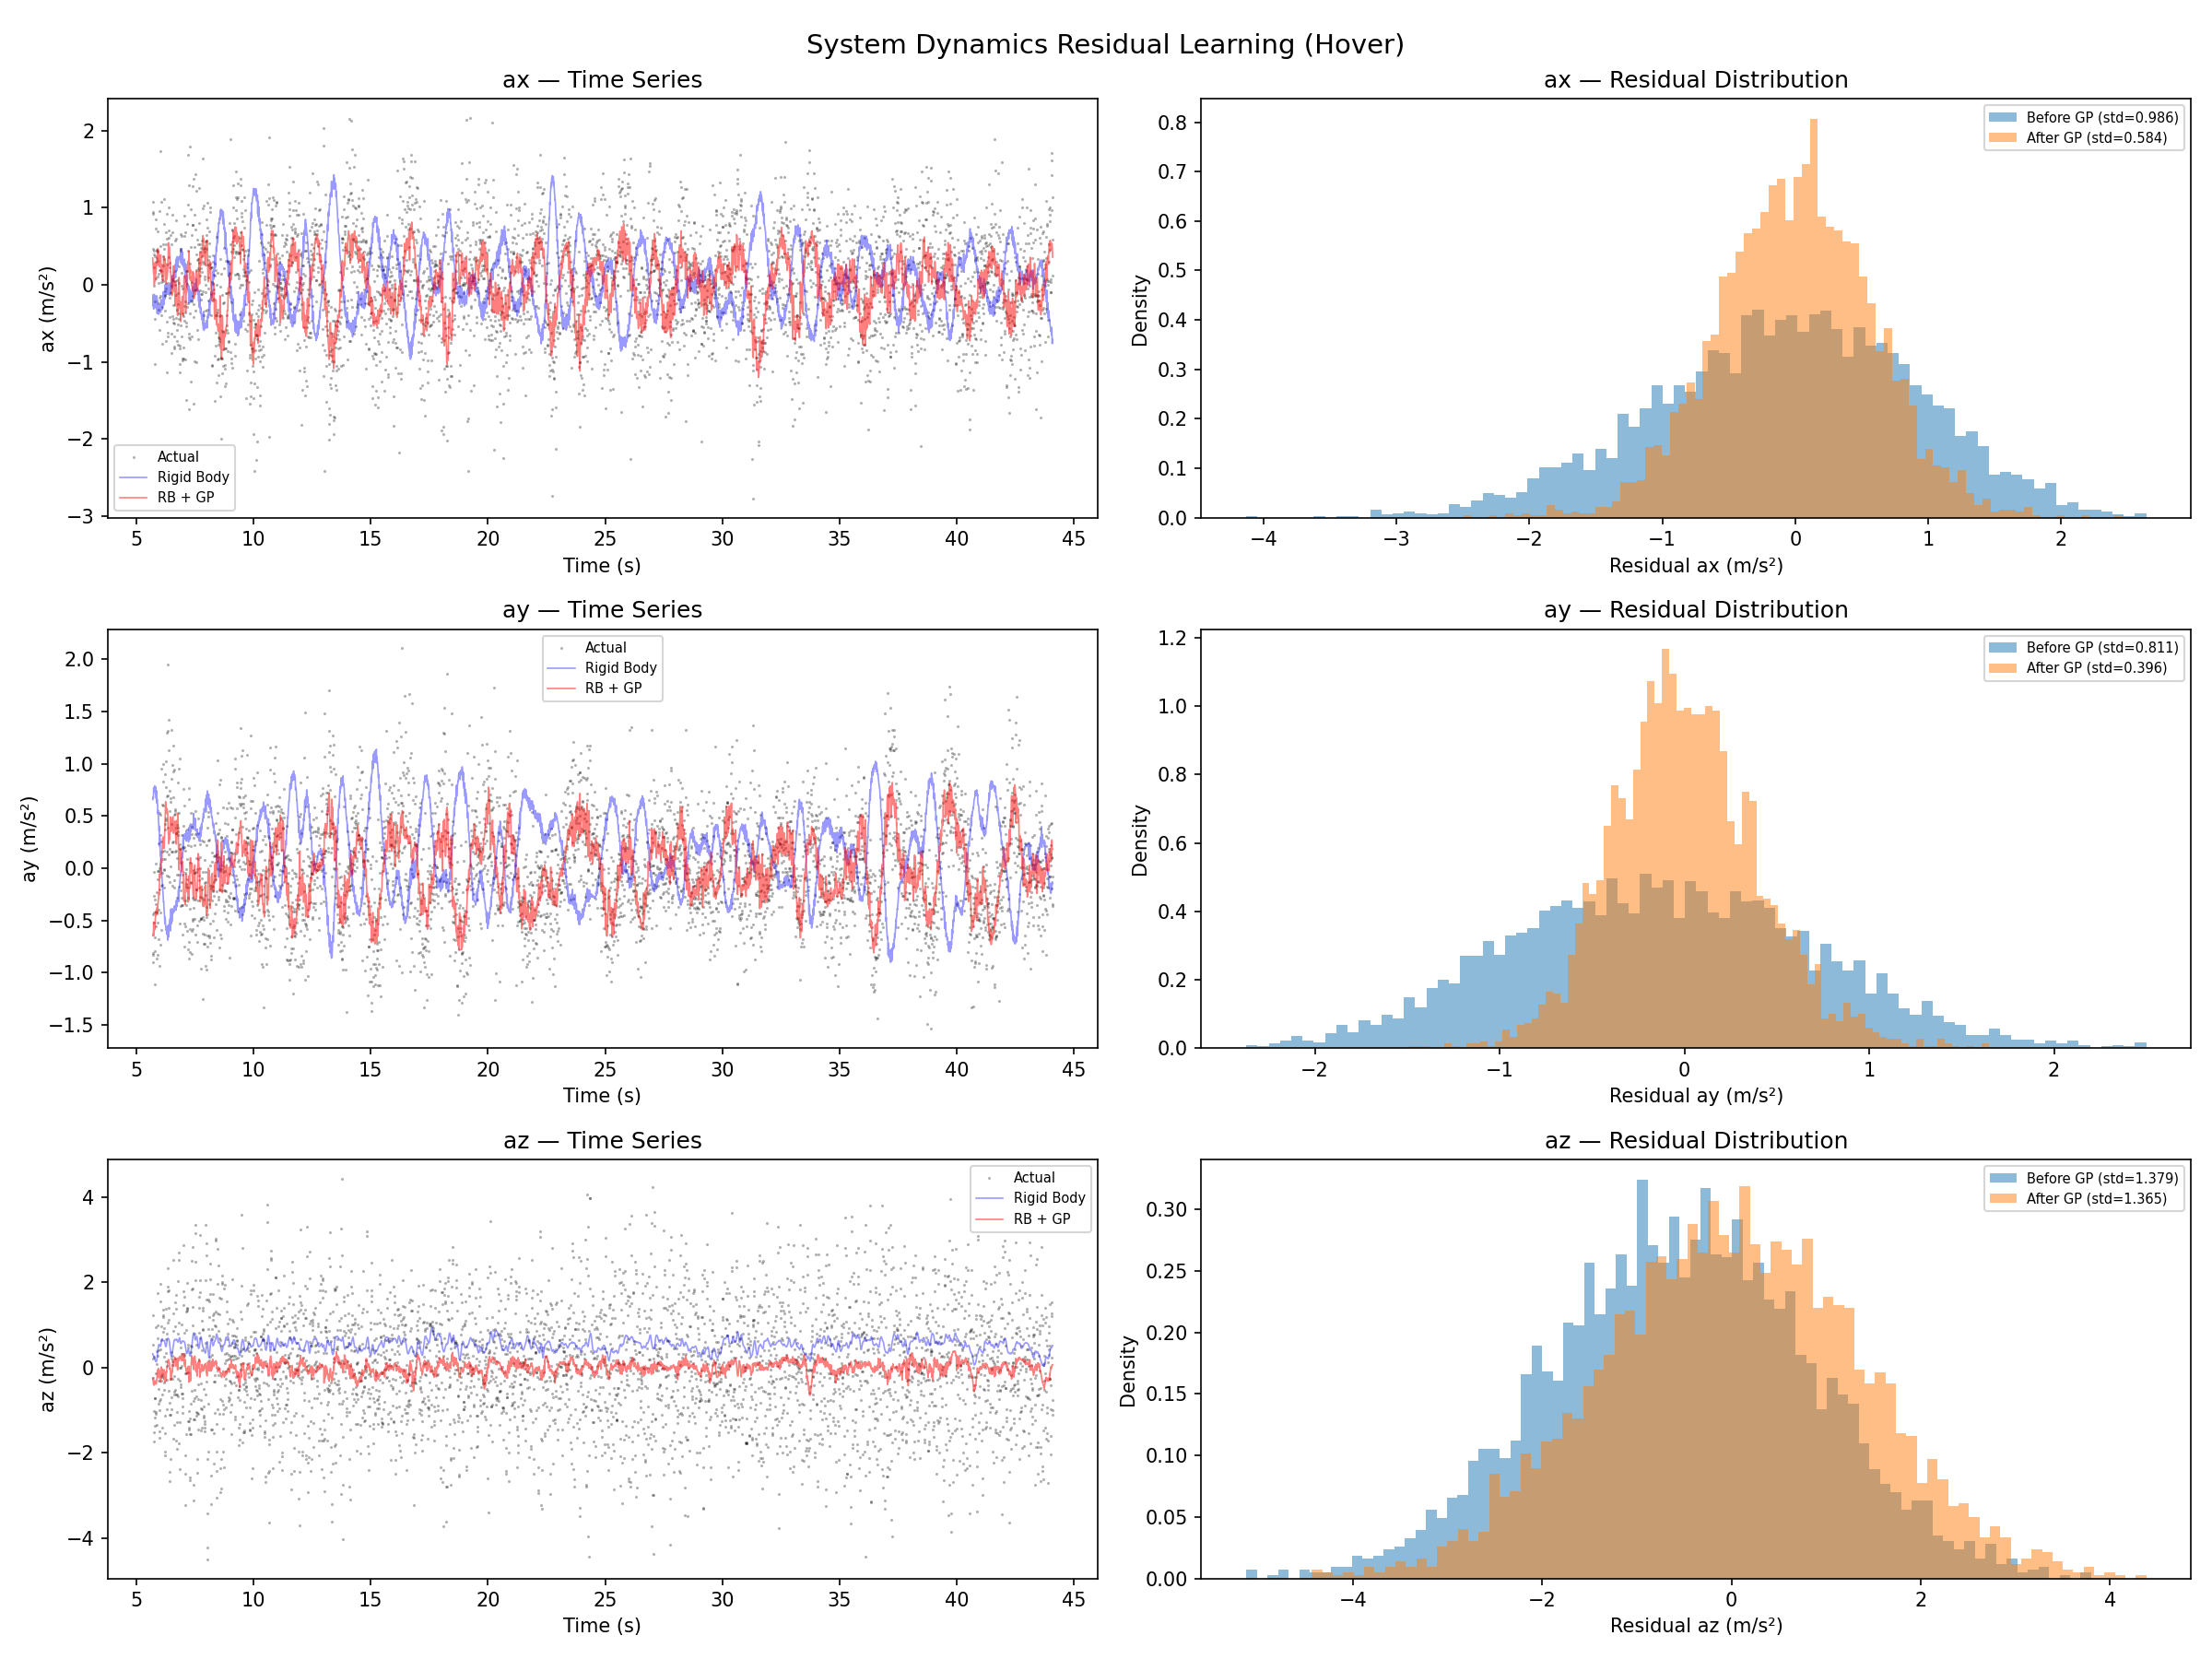
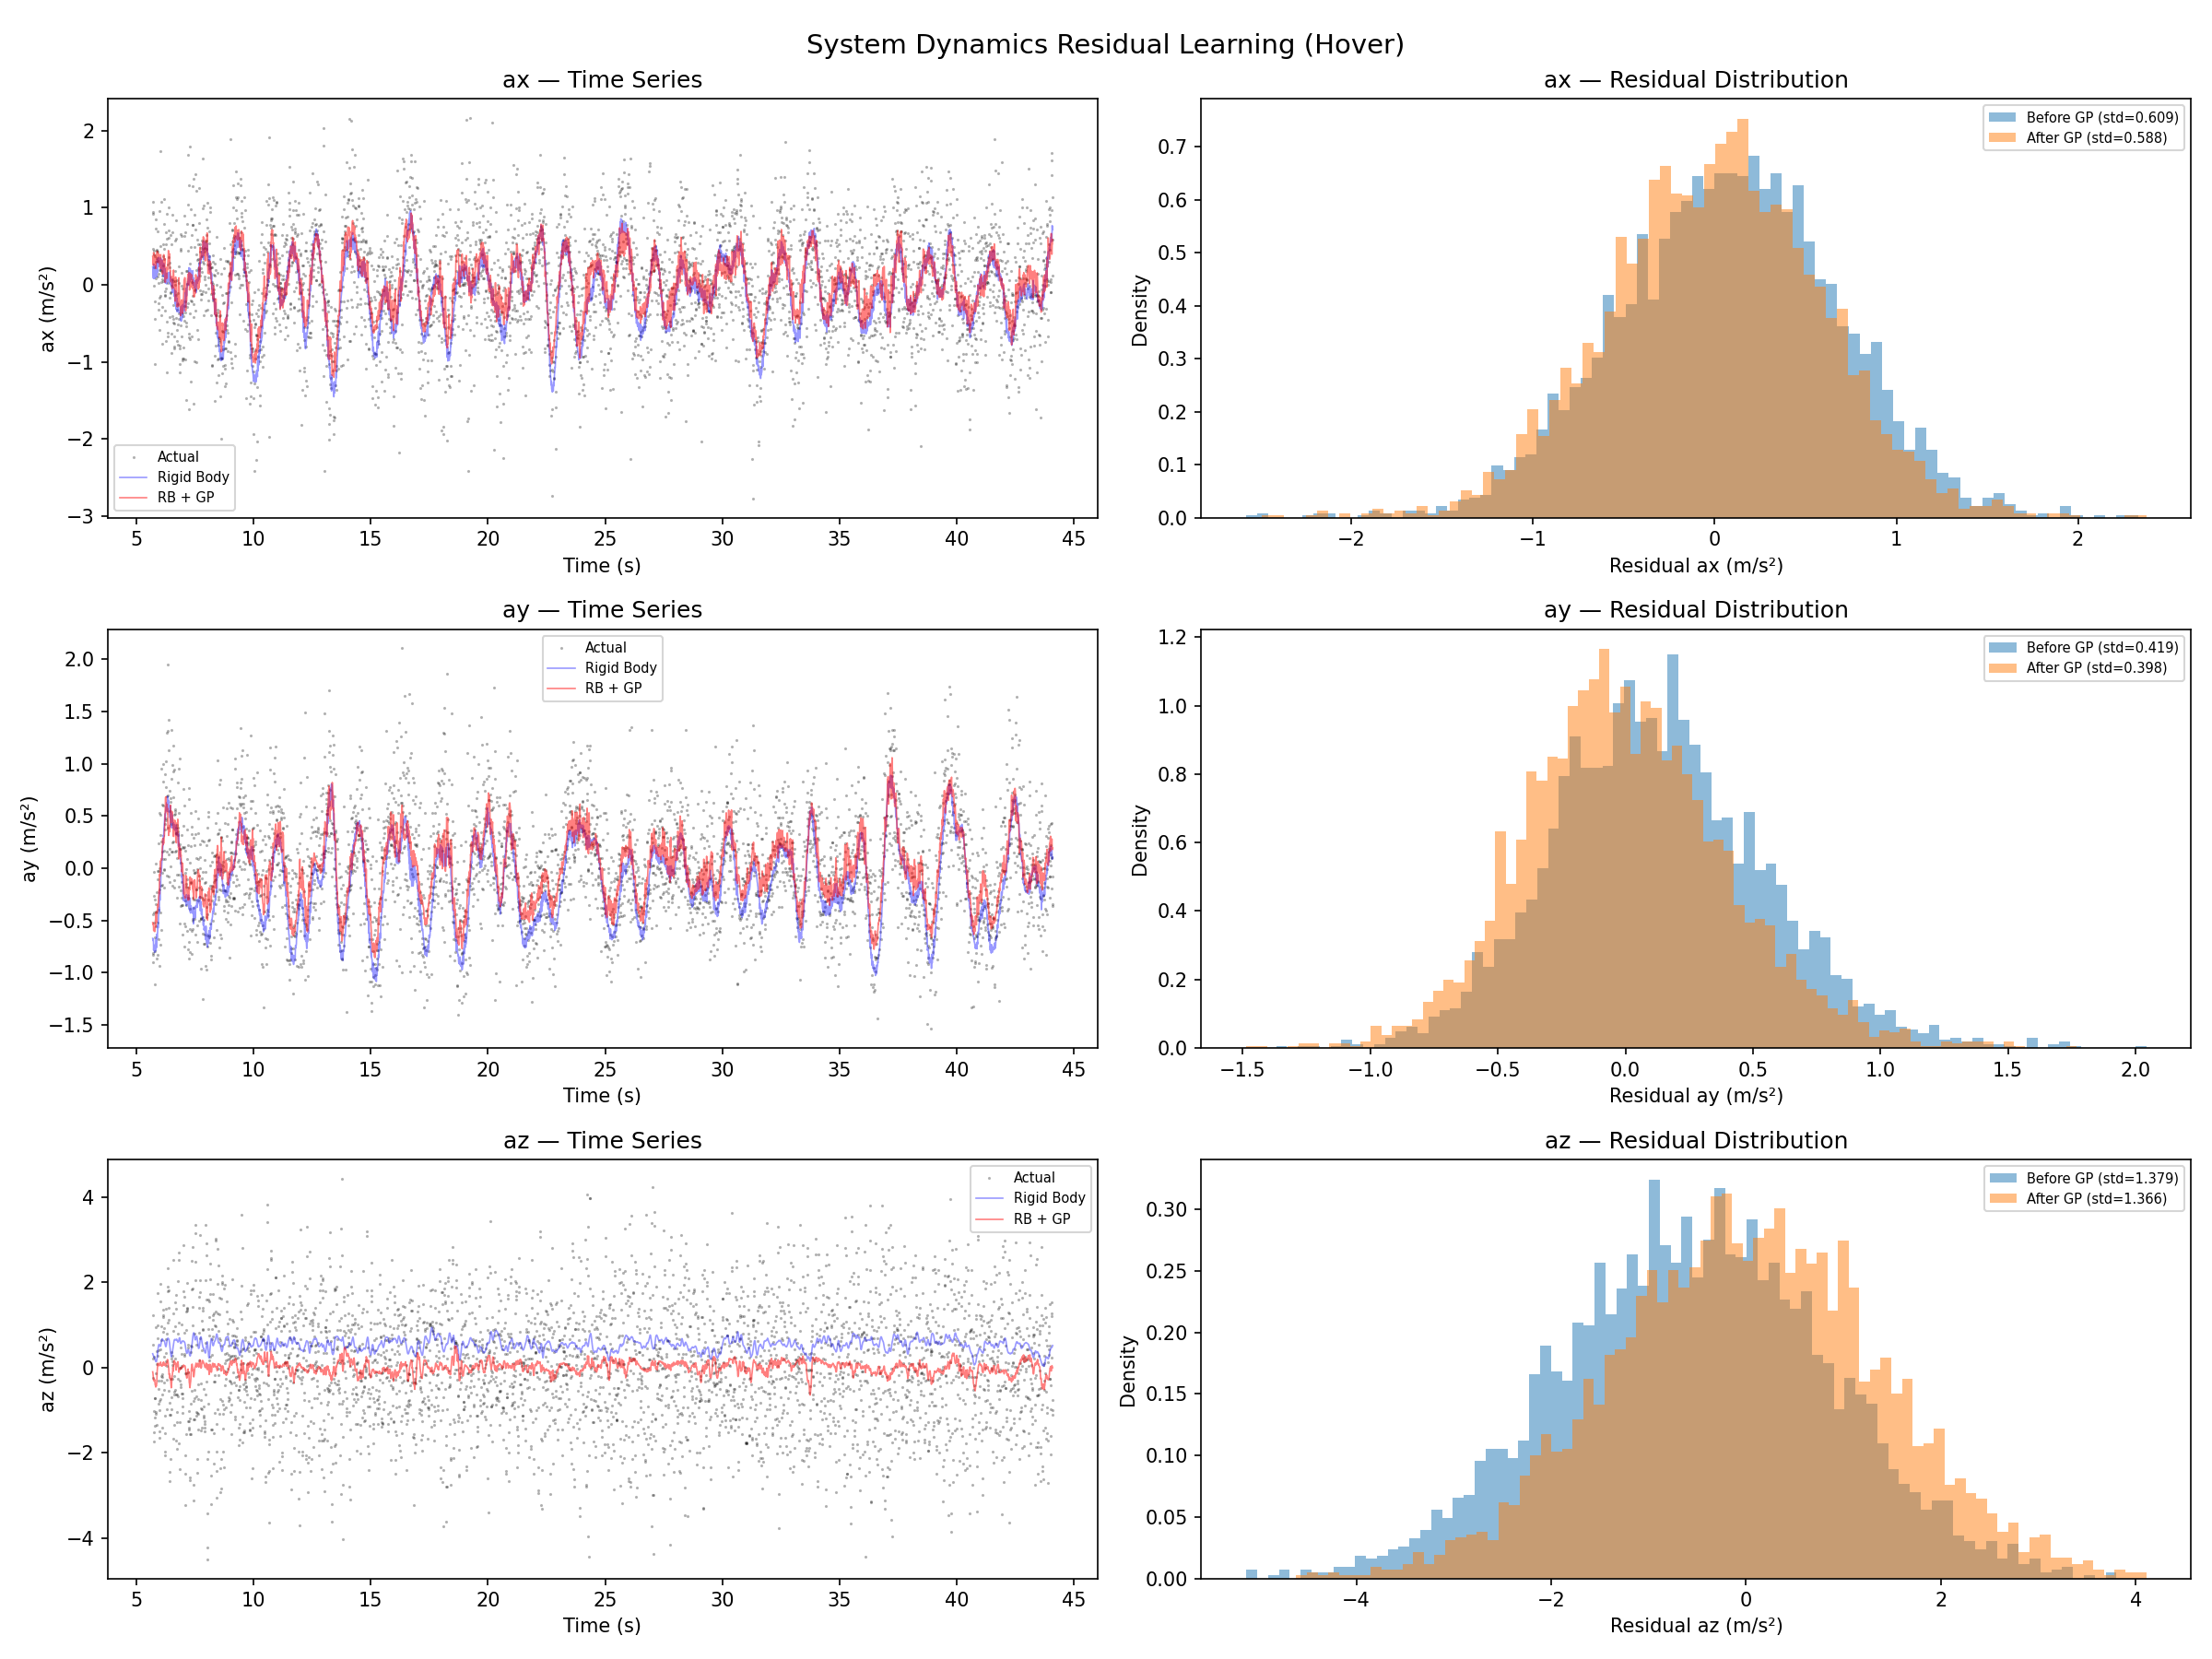
Fix RB accel sign: use rotation matrix directly, remove torque features
Euler formula had inverted sign for ax/ay. Using R*[0,0,Fz/m] directly
fixes the phase inversion. Torques removed from features since linear
acceleration depends only on Fz and attitude.
  ax residual std: 0.986 → 0.609 (38% reduction)
  ay residual std: 0.811 → 0.419 (48% reduction)

https://claude.ai/code/session_01LyivL6ySPkazYroLddSuMA

diff --git a/data_set/train_system_sparse_gpr.py b/data_set/train_system_sparse_gpr.py
@@ -4,7 +4,7 @@ System Dynamics Residual Learning with Sparse GPR
 Learns the residual between rigid-body dynamics prediction and actual
 acceleration from odom, during hovering flight.
 
-Input: [Fz, tau_x, tau_y, tau_z, roll, pitch, vx, vy, vz]
+Input: [Fz, roll, pitch, vx, vy, vz]
 Output: [ax, ay, az] residual (actual - predicted)
 
 Uses GPyTorch Variational SGPR with inducing points.
@@ -163,18 +163,22 @@ def compute_accel_from_velocity(ts, vx, vy, vz):
     return ax, ay, az
 
 
-def predict_rigid_body_accel(fz, roll, pitch):
+def predict_rigid_body_accel(fz, rotations):
     """
     Predict world-frame linear acceleration from thrust and orientation.
-    Thrust is along body z-axis, rotated to world frame.
+    Uses rotation matrix directly to avoid Euler sign convention issues.
 
-    a_x = -(Fz/m) * sin(pitch)
-    a_y =  (Fz/m) * sin(roll) * cos(pitch)
-    a_z =  (Fz/m) * cos(roll) * cos(pitch) - g
+    a_world = R * [0, 0, Fz/m]^T + [0, 0, -g]^T
     """
-    ax_pred = -(fz / MASS) * np.sin(pitch)
-    ay_pred = (fz / MASS) * np.sin(roll) * np.cos(pitch)
-    az_pred = (fz / MASS) * np.cos(roll) * np.cos(pitch) - G
+    N = len(fz)
+    ax_pred = np.zeros(N)
+    ay_pred = np.zeros(N)
+    az_pred = np.zeros(N)
+    for i in range(N):
+        thrust_world = rotations[i].apply([0, 0, fz[i] / MASS])
+        ax_pred[i] = thrust_world[0]
+        ay_pred[i] = thrust_world[1]
+        az_pred[i] = thrust_world[2] - G
     return ax_pred, ay_pred, az_pred
 
 
@@ -323,20 +327,14 @@ def main():
         odom_t, vx_world, vy_world, vz_world
     )
 
-    # --- Interpolate to odom timestamps ---
-    print("\n[4] Interpolating inputs to odom timestamps...")
+    # --- Interpolate Fz from actual RPM ---
+    print("\n[4] Interpolating Fz from actual RPM to odom timestamps...")
     fz_interp = interp1d(rpm_t, fz_rpm, kind="linear",
                          fill_value="extrapolate", bounds_error=False)(odom_t)
-    tx_interp = interp1d(ctrl_t, ctrl["tx"], kind="previous",
-                         fill_value="extrapolate", bounds_error=False)(odom_t)
-    ty_interp = interp1d(ctrl_t, ctrl["ty"], kind="previous",
-                         fill_value="extrapolate", bounds_error=False)(odom_t)
-    tz_interp = interp1d(ctrl_t, ctrl["tz"], kind="previous",
-                         fill_value="extrapolate", bounds_error=False)(odom_t)
 
-    # --- Rigid body prediction (Fz from actual RPM) ---
-    print("\n[5] Computing rigid-body predicted accelerations (Fz from actual RPM)...")
-    ax_pred, ay_pred, az_pred = predict_rigid_body_accel(fz_interp, roll, pitch)
+    # --- Rigid body prediction (rotation matrix, Fz from actual RPM) ---
+    print("\n[5] Computing rigid-body predicted accelerations (R*[0,0,Fz/m])...")
+    ax_pred, ay_pred, az_pred = predict_rigid_body_accel(fz_interp, rots)
 
     # --- Compute residuals (hovering only) ---
     res_ax = ax_actual[hover_idx] - ax_pred[hover_idx]
@@ -349,12 +347,9 @@ def main():
     print(f"    az: mean={res_az.mean():.4f}, std={res_az.std():.4f} m/s^2")
 
     # --- Prepare features ---
-    # [Fz, tx, ty, tz, roll, pitch, vx_world, vy_world, vz_world]
+    # [Fz, roll, pitch, vx_world, vy_world, vz_world]
     features = np.stack([
         fz_interp[hover_idx],
-        tx_interp[hover_idx],
-        ty_interp[hover_idx],
-        tz_interp[hover_idx],
         roll[hover_idx],
         pitch[hover_idx],
         vx_world[hover_idx],